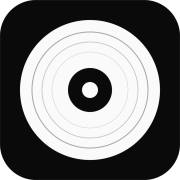
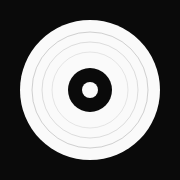
feat(frontend): make the web app installable on iOS and Android (PWA) (#492)
The manifest and touch icon were already there, so Safari's "Add to Home
Screen" worked, but the result launched on the marketing page, drew the
app under the iOS status bar once installed, shipped a touch icon with
transparent corners (iOS fills those black), had no icons above 180px,
and showed the browser's error page when launched without a connection.

- app.html: apple-mobile-web-app-capable / -status-bar-style
  (black-translucent) / -title, mobile-web-app-capable, application-name,
  format-detection, and an explicit 180x180 apple-touch-icon.
- manifest: id, start_url = APP_HOME (/overview), lang, categories,
  192/512 PNG icons for "any" and "maskable", and Library / Tracks / Liked
  shortcuts (all routes every role may open). The scheme-adaptive SVG is
  dropped from the manifest so the installed icon is deterministic; it
  stays the favicon.
- icons: rendered from the existing icon.svg with headless Chromium —
  rounded "any" icons, full-bleed maskable icons with the disc in the 80%
  safe zone, and an opaque full-bleed apple-icon.png.
- service worker: deliberately minimal. It precaches only
  static/offline.html and serves it when a top-level navigation fails at
  the network level. It never touches HTML, API calls, SSE, audio range
  requests, build chunks or the version poll, so the root layout's
  version-poll + stale-chunk recovery keep working unchanged.
- safe areas: with a translucent status bar the page draws under it, so
[…]

diff --git a/frontend/static/offline.html b/frontend/static/offline.html
@@ -1,0 +1,150 @@
+<!doctype html>
+<html lang="en">
+  <head>
+    <meta charset="utf-8" />
+    <title>Offline · MusicHoarder</title>
+    <meta name="viewport" content="width=device-width, initial-scale=1, viewport-fit=cover" />
+    <meta name="robots" content="noindex" />
+    <meta name="theme-color" content="#ffffff" media="(prefers-color-scheme: light)" />
+    <meta name="theme-color" content="#0a0a0a" media="(prefers-color-scheme: dark)" />
+    <!--
+      Served by src/service-worker.ts when a navigation fails at the network level — typically an
+      installed (home-screen) app launched without connectivity. Self-contained on purpose: it is
+      the only thing the worker caches, so it must not depend on any other asset.
+    -->
+    <style>
+      :root {
+        color-scheme: light dark;
+        --bg: #ffffff;
+        --fg: #0a0a0a;
+        --muted: #737373;
+        --border: #e5e5e5;
+        --card: #fafafa;
+        --disc: #0a0a0a;
+        --label: #fafafa;
+        --groove: #525252;
+      }
+      @media (prefers-color-scheme: dark) {
+        :root:not([data-theme='light']) {
+          --bg: #0a0a0a;
+          --fg: #fafafa;
+          --muted: #a3a3a3;
+          --border: #262626;
+          --card: #141414;
+          --disc: #fafafa;
+          --label: #0a0a0a;
+          --groove: #a3a3a3;
+        }
+      }
+      :root[data-theme='dark'] {
+        --bg: #0a0a0a;
+        --fg: #fafafa;
+        --muted: #a3a3a3;
+        --border: #262626;
+        --card: #141414;
+        --disc: #fafafa;
+        --label: #0a0a0a;
+        --groove: #a3a3a3;
+      }
+      * {
+        box-sizing: border-box;
+      }
+      html,
+      body {
+        margin: 0;
+        min-height: 100%;
+        background: var(--bg);
+        color: var(--fg);
+        font-family:
+          ui-sans-serif,
+          system-ui,
+          -apple-system,
+          'Segoe UI',
+          Roboto,
+          Helvetica,
+          Arial,
+          sans-serif;
+        -webkit-font-smoothing: antialiased;
+      }
+      body {
+        display: flex;
+        align-items: center;
+        justify-content: center;
+        min-height: 100svh;
+        padding: calc(24px + env(safe-area-inset-top)) 24px calc(24px + env(safe-area-inset-bottom));
+      }
+      main {
+        width: 100%;
+        max-width: 24rem;
+        padding: 2rem;
+        border: 1px solid var(--border);
+        border-radius: 1rem;
+        background: var(--card);
+        text-align: center;
+      }
+      svg {
+        display: block;
+        width: 64px;
+        height: 64px;
+        margin: 0 auto 1.25rem;
+      }
+      h1 {
+        margin: 0 0 0.5rem;
+        font-size: 1.25rem;
+        font-weight: 600;
+        letter-spacing: -0.01em;
+      }
+      p {
+        margin: 0 0 1.5rem;
+        font-size: 0.9rem;
+        line-height: 1.5;
+        color: var(--muted);
+      }
+      button {
+        appearance: none;
+        border: 0;
+        border-radius: 0.5rem;
+        padding: 0.6rem 1.1rem;
+        font: inherit;
+        font-size: 0.9rem;
+        font-weight: 500;
+        color: var(--bg);
+        background: var(--fg);
+        cursor: pointer;
+      }
+      button:active {
+        opacity: 0.85;
+      }
+    </style>
+  </head>
+  <body>
+    <main>
+      <svg viewBox="0 0 180 180" aria-hidden="true">
+        <g transform="translate(90 90)">
+          <circle fill="var(--disc)" r="70" />
+          <circle fill="none" stroke="var(--groove)" stroke-width="1" opacity="0.5" r="58" />
+          <circle fill="none" stroke="var(--groove)" stroke-width="0.75" opacity="0.35" r="48" />
+          <circle fill="none" stroke="var(--groove)" stroke-width="0.5" opacity="0.25" r="38" />
+          <circle fill="var(--label)" r="22" />
+          <circle fill="var(--disc)" r="8" />
+        </g>
+      </svg>
+      <h1>You're offline</h1>
+      <p>
+        MusicHoarder streams from your own server, so it needs a connection. This page reloads by
+        itself as soon as you're back online.
+      </p>
+      <button type="button" onclick="location.reload()">Try again</button>
+    </main>
+    <script>
+      // Honour a theme the app pinned (mode-watcher persists it), else follow the system.
+      try {
+        var mode = localStorage.getItem('mode-watcher-mode');
+        if (mode === 'light' || mode === 'dark') document.documentElement.dataset.theme = mode;
+      } catch (_) {}
+      addEventListener('online', function () {
+        location.reload();
+      });
+    </script>
+  </body>
+</html>

diff --git a/frontend/src/service-worker.ts b/frontend/src/service-worker.ts
@@ -1,0 +1,63 @@
+/// <reference types="@sveltejs/kit" />
+/// <reference no-default-lib="true"/>
+/// <reference lib="esnext" />
+/// <reference lib="webworker" />
+
+import { base, version } from '$service-worker';
+
+/**
+ * Deliberately minimal service worker.
+ *
+ * What it does: precaches one static page and serves it when a *top-level navigation* fails at
+ * the network level, so an installed (home-screen) app launched without connectivity shows a
+ * MusicHoarder "you're offline" screen instead of the browser's error page. SvelteKit registers
+ * it automatically because this file exists (`kit.serviceWorker.register` defaults to true).
+ *
+ * What it deliberately does NOT do: cache HTML, API responses, audio, or the build's JS/CSS.
+ * The app is a thin client over its own API (nothing works offline anyway), `/_app/immutable/*`
+ * already ships with `Cache-Control: immutable` so the HTTP cache covers it, and the root layout's
+ * version poll + stale-chunk recovery assume HTML always comes from the server. A caching layer
+ * here would turn every deploy into a stale-shell bug — keep it this small.
+ */
+const sw = self as unknown as ServiceWorkerGlobalScope;
+
+const CACHE = `mh-offline-${version}`;
+const OFFLINE_URL = `${base}/offline.html`;
+
+sw.addEventListener('install', (event) => {
+  event.waitUntil(
+    caches
+      .open(CACHE)
+      // `reload` bypasses the HTTP cache so a redeploy always picks up the current page.
+      .then((cache) => cache.add(new Request(OFFLINE_URL, { cache: 'reload' })))
+      // Nothing else is cached, so taking over open tabs immediately is safe.
+      .then(() => sw.skipWaiting())
+  );
+});
+
+sw.addEventListener('activate', (event) => {
+  event.waitUntil(
+    caches
+      .keys()
+      .then((keys) =>
+        Promise.all(keys.filter((key) => key !== CACHE).map((key) => caches.delete(key)))
+      )
+      .then(() => sw.clients.claim())
+  );
+});
+
+sw.addEventListener('fetch', (event) => {
+  // Only top-level navigations. Everything else — API calls, SSE streams, audio range requests,
+  // build chunks, the `_app/version.json` poll — never passes through this worker.
+  if (event.request.mode !== 'navigate' || event.request.method !== 'GET') return;
+
+  event.respondWith(
+    fetch(event.request).catch(async (err: unknown) => {
+      // Only a *network* failure lands here; a server response (5xx included) went through above,
+      // so the app's own error page keeps handling those.
+      const offline = await caches.match(OFFLINE_URL);
+      if (offline) return offline;
+      throw err;
+    })
+  );
+});

diff --git a/frontend/src/app.html b/frontend/src/app.html
@@ -3,11 +3,21 @@
   <head>
     <meta charset="utf-8" />
     <link rel="icon" type="image/svg+xml" href="%sveltekit.assets%/icon.svg" />
-    <link rel="apple-touch-icon" href="%sveltekit.assets%/apple-icon.png" />
+    <link rel="apple-touch-icon" sizes="180x180" href="%sveltekit.assets%/apple-icon.png" />
     <link rel="manifest" href="%sveltekit.assets%/manifest.webmanifest" />
     <meta name="viewport" content="width=device-width, initial-scale=1, viewport-fit=cover" />
     <meta name="theme-color" content="#ffffff" media="(prefers-color-scheme: light)" />
     <meta name="theme-color" content="#0a0a0a" media="(prefers-color-scheme: dark)" />
+    <!-- Installed (home-screen) app. The manifest's `display: standalone` already launches without
+         browser chrome on iOS; these Apple-specific tags cover what the manifest cannot: a
+         translucent status bar (the page draws under it, so every top-anchored surface pads by
+         env(safe-area-inset-top), which is 0 in a browser tab) and the home-screen label. -->
+    <meta name="mobile-web-app-capable" content="yes" />
+    <meta name="apple-mobile-web-app-capable" content="yes" />
+    <meta name="apple-mobile-web-app-status-bar-style" content="black-translucent" />
+    <meta name="apple-mobile-web-app-title" content="MusicHoarder" />
+    <meta name="application-name" content="MusicHoarder" />
+    <meta name="format-detection" content="telephone=no" />
     %sveltekit.head%
   </head>
   <body

diff --git a/frontend/src/lib/components/ui/sidebar/sidebar.svelte b/frontend/src/lib/components/ui/sidebar/sidebar.svelte
@@ -44,7 +44,7 @@
 			data-slot="sidebar"
 			data-mobile="true"
 			class={cn(
-				"bg-sidebar/70 text-sidebar-foreground ring-sidebar-border w-(--sidebar-width) overflow-hidden p-0 ring-1 backdrop-blur-xl backdrop-saturate-150 [&>button]:hidden data-[side=left]:inset-y-3 data-[side=left]:left-3 data-[side=left]:h-auto data-[side=left]:rounded-2xl data-[side=left]:border-r-0 data-[side=left]:shadow-[0_4px_24px_oklch(0%_0_0/0.08)] dark:data-[side=left]:shadow-[0_4px_20px_rgba(0,0,0,0.35)]",
+				"bg-sidebar/70 text-sidebar-foreground ring-sidebar-border w-(--sidebar-width) overflow-hidden p-0 ring-1 backdrop-blur-xl backdrop-saturate-150 [&>button]:hidden data-[side=left]:top-[calc(0.75rem_+_env(safe-area-inset-top))] data-[side=left]:bottom-[calc(0.75rem_+_env(safe-area-inset-bottom))] data-[side=left]:left-3 data-[side=left]:h-auto data-[side=left]:rounded-2xl data-[side=left]:border-r-0 data-[side=left]:shadow-[0_4px_24px_oklch(0%_0_0/0.08)] dark:data-[side=left]:shadow-[0_4px_20px_rgba(0,0,0,0.35)]",
 				className
 			)}
 			style="--sidebar-width: {SIDEBAR_WIDTH_MOBILE};"

diff --git a/frontend/src/lib/components/v2/SongDetailHost.svelte b/frontend/src/lib/components/v2/SongDetailHost.svelte
@@ -69,8 +69,10 @@
     <DialogPrimitive.Overlay
       class="data-open:animate-in data-closed:animate-out data-closed:fade-out-0 data-open:fade-in-0 fixed inset-0 z-[60] bg-black/40 duration-150"
     />
+    <!-- Safe-area padding is for the installed (home-screen) app, where this covers the status bar
+         and home indicator; the `absolute inset-0` backdrops below still span the padding box. -->
     <DialogPrimitive.Content
-      class="data-open:animate-in data-open:fade-in-0 data-closed:animate-out data-closed:fade-out-0 fixed inset-0 z-[60] flex flex-col overflow-hidden outline-none duration-150"
+      class="data-open:animate-in data-open:fade-in-0 data-closed:animate-out data-closed:fade-out-0 fixed inset-0 z-[60] flex flex-col overflow-hidden pt-[env(safe-area-inset-top)] pb-[env(safe-area-inset-bottom)] duration-150 outline-none"
     >
       <!-- Backdrop: the song's muted music video (synced to the audio clock) when attached and
            enabled, else the ambient blurred cover + theme-aware scrim. -->

diff --git a/frontend/src/lib/components/v2/AppTopBarV2.svelte b/frontend/src/lib/components/v2/AppTopBarV2.svelte
@@ -53,8 +53,14 @@
   The strip takes the slack (min-w-0 flex-1 and it scrolls internally) while the
   action cluster is shrink-0 — the only arrangement where the eight Manage tabs
   can't push the Search button off a phone screen.
+
+  Installed as a home-screen app the page draws under the iOS status bar
+  (`black-translucent` in app.html), so the bar grows by env(safe-area-inset-top)
+  and pads its content below it. That inset is 0 in a browser tab.
 -->
-<header class="border-border bg-background flex h-12 shrink-0 items-center gap-2 border-b px-3.5">
+<header
+  class="border-border bg-background flex h-[calc(3rem_+_env(safe-area-inset-top))] shrink-0 items-center gap-2 border-b px-3.5 pt-[env(safe-area-inset-top)]"
+>
   <Sidebar.Trigger class="-ml-1 size-9 shrink-0 md:size-7" />
   {#if nav}
     <SectionTabsV2

diff --git a/frontend/src/app.css b/frontend/src/app.css
@@ -180,6 +180,15 @@
   body {
     @apply bg-background text-foreground;
   }
+  /* Installed (home-screen) app only: the app shell never scrolls the document, and the login /
+     marketing pages have nothing past their edges, so stop iOS rubber-banding the whole app when a
+     scroll chains to the body. Browser tabs keep the platform default. */
+  @media (display-mode: standalone) {
+    html,
+    body {
+      overscroll-behavior-y: none;
+    }
+  }
 }
 
 /* Page content scrolls behind the floating MiniPlayer / mobile bottom nav. Every

diff --git a/frontend/src/routes/+layout.svelte b/frontend/src/routes/+layout.svelte
@@ -34,6 +34,14 @@
 
 <ModeWatcher defaultMode="system" />
 <Analytics />
-<Toaster position="top-center" richColors closeButton />
+<!-- Top offsets are the library defaults plus the status-bar inset an installed (home-screen) app
+     draws under; in a browser tab the inset is 0. -->
+<Toaster
+  position="top-center"
+  richColors
+  closeButton
+  offset={{ top: 'calc(24px + env(safe-area-inset-top))' }}
+  mobileOffset={{ top: 'calc(16px + env(safe-area-inset-top))' }}
+/>
 
 {@render children()}

diff --git a/frontend/src/lib/components/landing/LandingNav.svelte b/frontend/src/lib/components/landing/LandingNav.svelte
@@ -13,7 +13,9 @@
   });
 </script>
 
-<nav class="mx-auto flex max-w-[1280px] items-center justify-between px-4 py-6 md:px-14">
+<nav
+  class="mx-auto flex max-w-[1280px] items-center justify-between px-4 pt-[calc(1.5rem_+_env(safe-area-inset-top))] pb-6 md:px-14"
+>
   <a href="/" class="flex items-center gap-2.5 text-[15px] font-semibold tracking-tight">
     <span
       class="bg-card grid h-7 w-7 place-items-center rounded-[7px]"

diff --git a/frontend/src/lib/styles/mobile.css b/frontend/src/lib/styles/mobile.css
@@ -82,7 +82,9 @@
 
 /* ============ Login ============ */
 .mob-login {
-  padding: 24px 22px 40px;
+  /* The safe-area terms only bite in an installed (home-screen) app, where the page draws under
+     the status bar and home indicator. */
+  padding: calc(24px + env(safe-area-inset-top)) 22px calc(40px + env(safe-area-inset-bottom));
 }
 .mob-login-h {
   font-size: 28px;

diff --git a/CLAUDE.md b/CLAUDE.md
@@ -51,7 +51,7 @@ CI (`.github/workflows/ci.yml`) builds and tests `MusicHoarder.Api.Tests` and th
 - **`MusicHoarder.Api`** — ASP.NET Core minimal API. Composition root is `Program.cs` → `AddMusicHoarderServices()` + `MapMusicHoarderEndpoints()`. Hosts the full pipeline as `BackgroundService`s and EF Core persistence (Npgsql).
 - **`MusicHoarder.AppHost`** — Aspire entry point. Wires Postgres (`ContainerLifetime.Persistent` + named data volume), API, and the SvelteKit frontend (`AddViteApp(...).WithBun()` with an HTTPS endpoint and Aspire dev cert). All required secrets/paths are modeled as `AddParameter(...)` and injected into the API as env vars (`MusicEnricher__*`, `Spotify__*`); the dashboard prompts for any missing values on first run. Frontend gets `MUSICHOARDER_API_URL` (HTTP for the internal Node→ASP.NET proxy hop); API gets `Frontend__PublicBaseUrl` (HTTPS, this env's own origin — the Spotify relay bounces the browser back here). Spotify OAuth uses one registered relay URI shared by every env (`Spotify__OAuthRelayUrl`); the relay route lives on the frontend (`/api/spotify/relay`) and is gated by a shared HMAC-signed `state` (`Spotify__OAuthStateSigningKey` / frontend `SPOTIFY_OAUTH_STATE_SIGNING_KEY`) plus a return-origin allowlist (`SPOTIFY_RETURN_ORIGIN_ALLOWLIST`) — see README "Spotify OAuth (relay)". `AddDockerComposeEnvironment("compose")` lets `aspire publish` emit a `docker-compose.yml` for Dokploy.
 - **`MusicHoarder.ServiceDefaults`** — Shared OpenTelemetry / health-check / resilient-HTTP defaults; `MapDefaultEndpoints()` is called from the API.
-- **`frontend/`** — SvelteKit 2 + Svelte 5 (runes) + Bun. All backend calls go through the same-origin proxy route `/api/mh/[...path]` defined in `frontend/src/routes/api/mh/[...path]/+server.ts` so the browser never needs CORS. The `(app)` route group sets `ssr = false` because the audio player reads browser-only state; the marketing `/` route keeps SSR. The only demo is the API-backed demo account (`/login` → "Try the demo" → `POST /api/auth/demo-login`).
+- **`frontend/`** — SvelteKit 2 + Svelte 5 (runes) + Bun. All backend calls go through the same-origin proxy route `/api/mh/[...path]` defined in `frontend/src/routes/api/mh/[...path]/+server.ts` so the browser never needs CORS. The `(app)` route group sets `ssr = false` because the audio player reads browser-only state; the marketing `/` route keeps SSR. The only demo is the API-backed demo account (`/login` → "Try the demo" → `POST /api/auth/demo-login`). The frontend is also an installable web app (PWA): `static/manifest.webmanifest` (`start_url` is `APP_HOME`, PNG icons rendered from `icon.svg`), the Apple meta tags in `app.html`, and `src/service-worker.ts`. That worker is **deliberately minimal** — it precaches only `static/offline.html` and serves it when a top-level navigation fails at the network level. It must never cache HTML, API responses, audio, or `/_app/immutable/*`: the app is a thin client over its own API, the HTTP cache already covers the immutable build assets, and the root layout's version poll + stale-chunk recovery assume HTML always comes from the server. The status bar is `black-translucent`, so every top-anchored surface (`AppTopBarV2`, the mobile sidebar sheet, `SongDetailHost`, the login and landing pages, the Toaster) pads by `env(safe-area-inset-top)`, which is 0 in a browser tab — a new full-height or top-fixed surface has to do the same.
 - **`android/`** — Native Android client (Kotlin, Compose, Media3/ExoPlayer, Gradle — built separately from the .NET solution, not in CI). It talks to the **frontend** origin, not the API's: `/api/mh/*` is proxied header-for-header, so a paired phone needs only the host the browser already uses. Three sign-in paths, all ending at `pair()` with a proven bearer: a QR code from Settings → Account → Mobile app (`POST /api/auth/device-token` → `musichoarder://pair?v=1&url=&token=`); in-app email sign-in (`POST /api/auth/request-link` with `client: "app"` → emailed link lands on the frontend's `/auth/callback` handoff page → `musichoarder://auth?token=&url=` deep link → `POST /api/auth/token` exchanges the one-time token for a bearer); and **passkey** (`POST /api/auth/webauthn/authenticate/native/{begin,complete}` — the cookie-free ceremony variant: the in-flight challenge round-trips through the response body as a time-limited data-protected blob instead of a cookie, and the reply is a bearer instead of `Set-Cookie`). The bearer token is attached by a *network* interceptor that re-checks the host on every redirect hop so it can never follow a redirect to an external CDN. **In-app passkeys need two env values, not one**: the frontend's `ANDROID_ASSETLINKS_FINGERPRINTS` (the assetlinks statement list carries `get_login_creds` alongside `handle_all_urls`, so Credential Manager will offer the origin's passkeys) *and* the API's `ANDROID_APK_KEY_HASH_ORIGIN` → `WebAuthn:Origins[0]`, because an in-app assertion's origin is `android:apk-key-hash:<base64url-sha256>` and fido2-net-lib compares non-URL origins as exact strings. Both blank is the safe default and costs only the in-app passkey. See `android/README.md`.
 - **`MusicHoarder.Api.Tests`** — xUnit + `Microsoft.EntityFrameworkCore.InMemory`. Mirror the source folder layout (`Enrichment/`, `Jobs/`, `Library/`, `Scanner/`, `Spotify/`).
 

diff --git a/README.md b/README.md
@@ -134,6 +134,14 @@ library, let it run, and review anything it isn't sure about.
   while every mutating action is denied.
 - **Self-hosted** — runs on your own hardware via .NET Aspire (dev) or Docker Compose (prod),
   pulling prebuilt GHCR images. Your music never leaves your machine.
+- **Installable web app** — add it to your iPhone or iPad home screen (Safari → Share → *Add to
+  Home Screen*) or install it from Chrome/Edge on Android and desktop. It launches full-screen
+  straight into your library with its own icon, lays out around the notch and home indicator, and
+  shows a MusicHoarder offline page instead of a browser error when there's no connection. Sign in
+  once inside the installed app: it keeps its own session, separate from Safari's, and an emailed
+  magic link opens in Safari rather than in the installed app — so on iPhone the smooth way in is a
+  passkey (enrol one under Settings → Account from Safari first) or the demo account. The native
+  [Android app](android/README.md) is still there for Android.
 
 ![The Stats dashboard — hero counts (in library, covers added, lyrics added, hours of music), a pipeline funnel, a Spotify wishlist journey, and metadata-coverage rings](docs/screenshots/stats.png)
 
